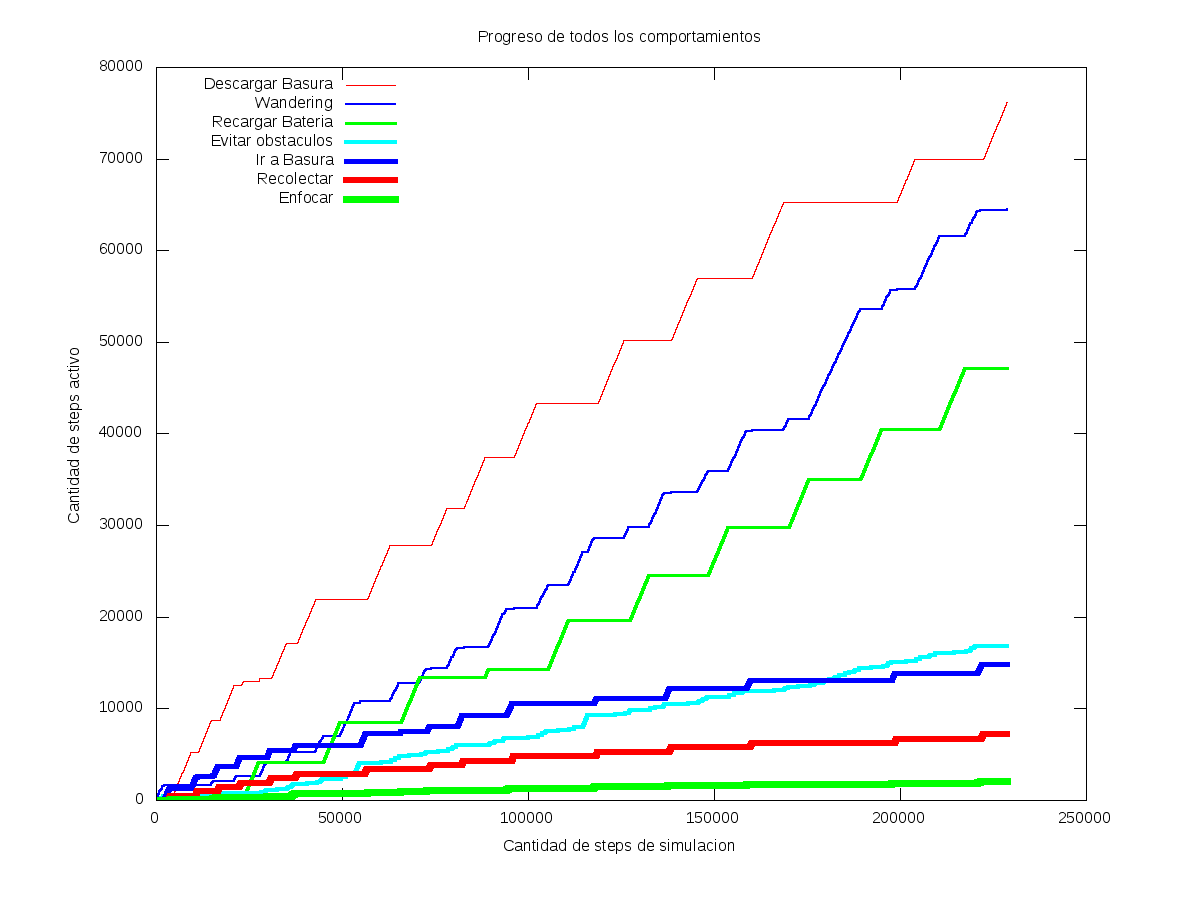
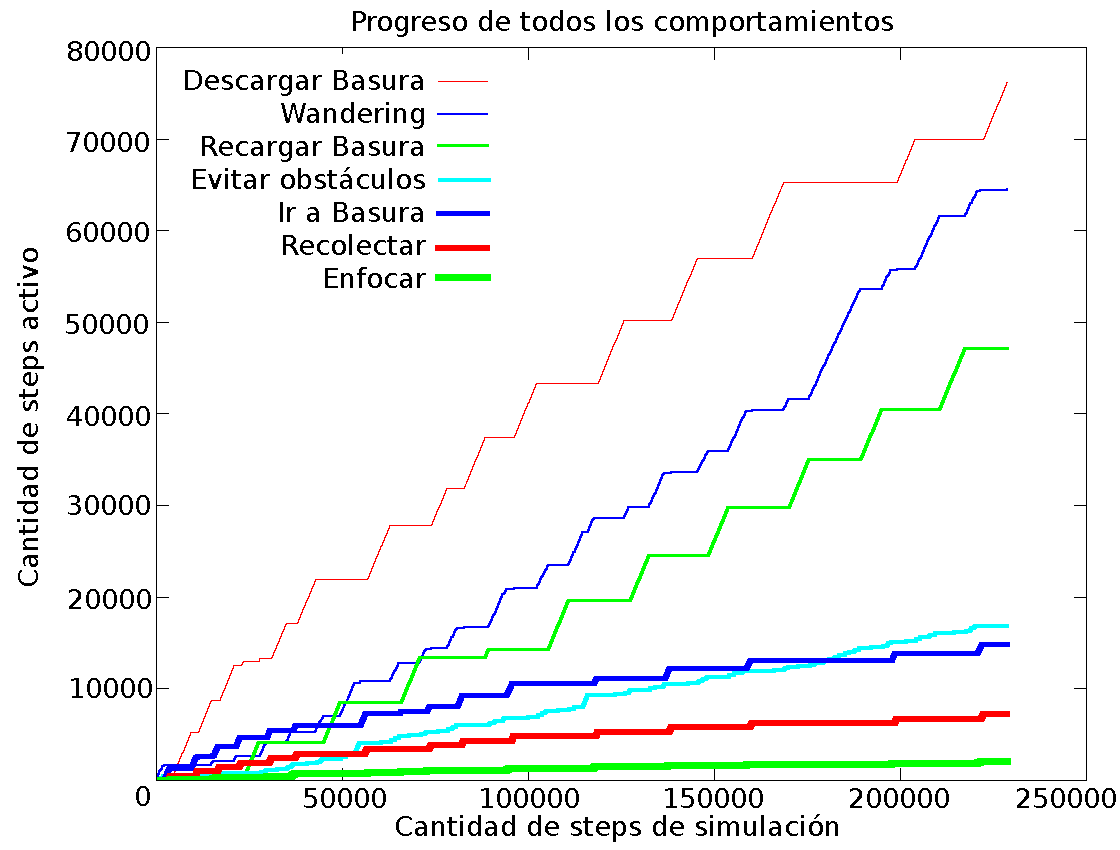
Not yet...

diff --git a/Tesis/comportamientos/comportamientos.tex b/Tesis/comportamientos/comportamientos.tex
@@ -539,12 +539,21 @@ descarga de basura} en 3 comportamientos m\'as simples: \emph{Buscar l\'inea},
 \label{find_line}
 Inicialmente hab\'iamos dispuesto las l\'ineas de forma tal que sigan los
 l\'imites de la arena. Entonces para buscar la l\'inea tuvimos que calcular
-para cada una cu\'al es la distancia hacia la misma, luego elegir ir a la
+para cada una cu\'al es la distancia hacia la misma y luego elegir ir a la
 que menor distancia se encontraba. \'Esta implementaci\'on, adem\'as de ser
-costosa, ten\'ia un problema: a veces suced\'ia que al ir hacia una l\'inea,
-la distancia hacia otra pasaba a ser m\'as corta y \'esta \'ultima pod\'ia
-estar m\'as lejos de la zona de recarga que la primera.
-\\\indent
+costosa, ten\'ia un problema: a veces suced\'ia que al elegir ir hacia la
+l\'inea m\'as cercana, el robot recorr\'ia m\'as distancia para llegar a la
+zona de recarga que si hubiera elegido otra l\'inea. Un ejemplo de \'esta
+situaci\'on se puede observar en la figura \ref{fig:arenainicial}.
+
+\begin{figure}[htp]
+\begin{center}
+\includegraphics[scale=0.85]{comportamientos/figures/arenawithalllinesRotatedUse.png}
+\caption{Primer aproximaci\'on de la arena de simulaci\'on}
+\label{fig:arenainicial}
+\end{center}
+\end{figure}
+
 Luego repensamos el problema y nos dimos cuenta que el objetivo era llegar a la
 zona de descarga, por lo que decidimos dejar s\'olo 2 las l\'ineas que se
 encuentran a la misma distancia, como se puede apreciar en la figura
@@ -593,9 +602,9 @@ por cada paso
     angulo_actual = obtener_angulo_actual(odometria)
     si esta_en_un_entorno_de(angulo_actual, PI/2) entonces
         si angulo_actual > PI/2 && angulo_actual < 3PI/2 entonces
-            giro_para_la_derecha
+            giro_sentido_horario
         sino
-            giro_para_la_izquierda
+            giro_sentido_antihorario
         fin si
     sino
         voy_hacia_linea
@@ -608,7 +617,7 @@ la derecha dependiendo cual sea el caso. Para ver esto m\'as claramente,
 veamos que sucediese si no estuviera:
 \begin{verbatim}
     si esta_en_un_entorno_de(angulo_actual,PI/2) entonces
-        giro_para_la_izquierda
+        giro_sentido_antihorario
     sino
 \end{verbatim}
 En el caso que el angulo actual sea $\pi$, el robot girar\'ia un total de
@@ -685,8 +694,8 @@ la izquierda, o $-\theta$ en el otro caso.
 \includegraphics[scale=0.4]{comportamientos/figures/floorSensorsLine2.png}
 \caption[Posibles estados iniciales de ``Entrar a la l\'inea'']{Posibles
 		estados iniciales de ``Entrar a la l\'inea''. En el caso (a) el
-		robot debe girar hacia la derecha. En el caso (b), el robot debe
-		girar hacia la izquierda. En el caso (c) el robot no debe girar}
+		robot debe girar en sentido horario. En el caso (b), el robot debe
+		girar en sentido anti-horario. En el caso (c) el robot no debe girar}
 \label{fig:floorSensorsInitialStates}
 \end{center}
 \end{figure}
@@ -707,9 +716,10 @@ la l\'inea, se recorre una distancia de $Fsd$ en el caso que el robot no haya
 girado anteriormente o $Fsl$ en el caso que s\'i lo haya hecho. El motivo de
 realizar este trayecto es que el centro del robot quede sobre la l\'inea, como
 muestra la figura \ref{fig:positioned}. De \'esta forma s\'olo queda girar
-nuevamente hacia el \'angulo que se quiera. Si la l\'inea es la izquierda
-entonces el robot deber\'a girar hasta que su orientaci\'on sea $0$ o $\pi$ en
-el caso que la l\'inea sea la derecha.
+nuevamente hacia el \'angulo que se quiera. Si la l\'inea est\'a marcada a la
+izquierda en la arena (Ver figura \ref{fig:arenafinal}) entonces el robot
+deber\'a girar hasta que su orientaci\'on sea $0$ o $\pi$ en el caso que la
+l\'inea sea la derecha.
 
 \begin{figure}[htp]
 \begin{center}
@@ -726,7 +736,7 @@ l\'inea, s\'olo basta con seguirla para llegar hacia la zona deseada. Este
 comportamiento es sencillo de desarrollar.
 
 \subparagraph{Detalle del comportamiento}
-Para lograr que el robot siga la l\'inea debemos es tratar de mantener
+Para lograr que el robot siga la l\'inea debemos tratar de mantener
 s\'olo el sensor del medio sobre la l\'nea. Entonces, basta con analizar que se
 debe hacer en los siguientes casos:
 \begin{enumerate}
@@ -762,12 +772,14 @@ del robot, con la misma idea del servo en el frente utilizado para
 recolectar.
 
 \paragraph{Detalle del comportamiento}
+
 Para descargar la basura el robot debe posicionarse de forma tal que la
 compuerta de descarga quede adyacente a la zona. Dado que para llegar a la
 misma el robot sigui\'o la l\'inea, al finalizar va a estar orientado con un
 \'angulo en un entorno de $\frac{\pi}{2}$ mirando la zona de descarga. Como el
 servo de descarga se encuentra en la parte trasera, deber\'a realizar un giro
-de aproximadamente $\pi$ para luego poder descargar la basura.
+de $\pi$ para luego poder descargar la basura.
+
 \paragraph{Implementaci\'on del comportamiento}
 \begin{verbatim}
     posicionarse()

diff --git a/Tesis/comportamientos/tesis.tex b/Tesis/comportamientos/tesis.tex
@@ -355,7 +355,7 @@ mostramos c\'omo disminuye el error a lo largo de las iteraciones.
 
 \begin{figure}[htp]
 \begin{center}
-\includegraphics[scale=0.6]{comportamientos/figures/errsist.eps}
+\includegraphics[scale=0.6]{comportamientos/figures/errsistUse.eps}
 %\includegraphics[scale=0.3]{comportamientos/figures/unk.jpg}
 \caption{Error Sistem\'atico M\'aximo a lo largo de las iteraciones}
 \label{fig:errsist}
@@ -578,7 +578,7 @@ y el que menor tiempo est\'a activo es \emph{Salir de situaciones no deseadas}.
 
 \begin{figure}[htp]
 \begin{center}
-\includegraphics[scale=0.3]{comportamientos/graphics/BehaviourDistributionPieUse.png}
+\includegraphics[scale=0.55]{comportamientos/graphics/BehaviourDistributionPieUse.png}
 \caption{Distribuci\'on de los tiempos de los comportamientos en la
 				simulaci\'on}
 \label{fig:behaviourDistribution}
@@ -602,11 +602,10 @@ de obst\'aculos} ya que sus mesetas son las menos prolongadas y sus
 pendientes son poco abruptas.
 
 \begin{figure}[htp]
-\begin{center}
-\includegraphics[scale=0.25]{comportamientos/graphics/AllUse.png}
+\centering
+\includegraphics[width=1.0\textwidth]{comportamientos/graphics/AllUse.png}
 \caption{Evoluci\'on de los comportamientos a lo largo de la simulaci\'on}
 \label{fig:behaviourEvolution}
-\end{center}
 \end{figure}
 
 En la figura \ref{fig:collectEvolution} mostramos m\'as en detalle el
@@ -618,11 +617,10 @@ simulaci\'on y las pendientes tienen aproximadamente la misma magnitud a lo
 largo de la misma.
 
 \begin{figure}[htp]
-\begin{center}
-\includegraphics[scale=0.25]{comportamientos/graphics/CollectUse.png}
+\centering
+\includegraphics[width=1.0\textwidth]{comportamientos/graphics/CollectUse.png}
 \caption{Progreso del comportamiento \emph{Recolectar Basura}}
 \label{fig:collectEvolution}
-\end{center}
 \end{figure}
 
 Para que pudieramos ver m\'as en detalle lo que sucedi\'o con los
